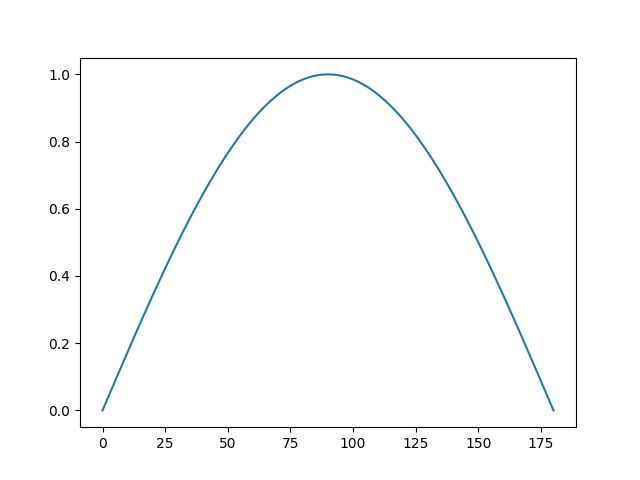
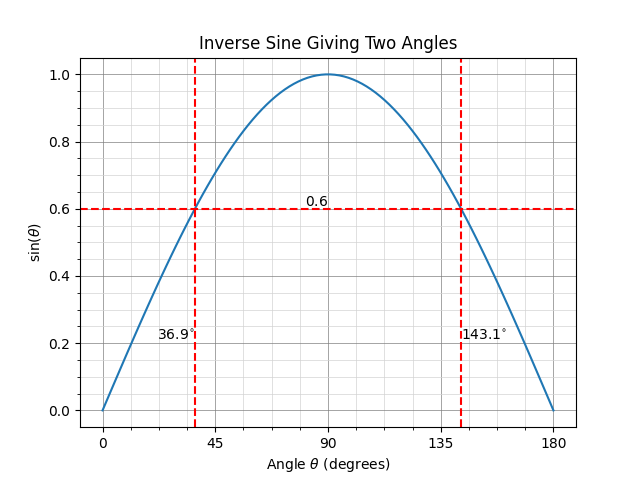
Added more info/diagrams on ambiguous Law of Sines cases.

diff --git a/content/mathematics/geometry/triangles/main.py b/content/mathematics/geometry/triangles/main.py
@@ -1,4 +1,5 @@
 import matplotlib.pyplot as plt
+from matplotlib import ticker
 import numpy as np
 import os
 from pathlib import Path
@@ -7,10 +8,41 @@ SCRIPT_DIR = Path(os.path.dirname(os.path.abspath(__file__)))
 
 def main():
     # Plot graph of sine wave
-    x = np.linspace(0, 180, 100)
-    y = np.sin(np.deg2rad(x))
+    thetas = np.linspace(0, 180, 100)
+    ys = np.sin(np.deg2rad(thetas))
 
-    plt.plot(x, y)
+    fig, ax = plt.subplots()
+
+    # Plot sine wave
+    ax.plot(thetas, ys)
+
+    # Plot horizontal line at y = 0.6
+    lineY = 0.6
+    ax.axhline(y=lineY, color='r', linestyle='--')
+
+    # Plot vertical lines where y=0.6 intersects sine wave
+    theta1 = np.rad2deg(np.arcsin(lineY))
+    theta2 = 180 - theta1
+    ax.axvline(x=theta1, color='r', linestyle='--')
+    ax.axvline(x=theta2, color='r', linestyle='--')
+
+    # Add label for y=0.6
+    ax.text(90, lineY, '$0.6$', horizontalalignment='right', verticalalignment='bottom')
+
+    # Add labels for intersections
+    ax.text(theta1, lineY/3, f'${theta1:.1f}^{{\circ}}$', horizontalalignment='right', verticalalignment='bottom')
+    ax.text(theta2, lineY/3, f'${theta2:.1f}^{{\circ}}$', horizontalalignment='left', verticalalignment='bottom')
+
+    # Add axis labels
+    ax.set(xlabel='Angle $\\theta$ (degrees)', ylabel='$\sin(\\theta)$',
+        title='Inverse Sine Giving Two Angles')
+    
+    # Show major and minor grid lines
+    ax.minorticks_on()
+    maj_pos = ticker.MultipleLocator(45)
+    ax.xaxis.set(major_locator=maj_pos)
+    ax.grid(which='major', linestyle='-', linewidth='0.5', color='gray')
+    ax.grid(which='minor', linestyle='-', linewidth='0.5', color='lightgray')
 
     plt.savefig(SCRIPT_DIR / '_assets/sine-law-sine-wave-graph.png')
 

diff --git a/content/mathematics/geometry/triangles/_index.md b/content/mathematics/geometry/triangles/_index.md
@@ -31,7 +31,7 @@ The lengths `\(a\)`, `\(b\)`, and `\(c\)` and opposite angles of `\(A\)`, `\(B\)
 
 {{% aside type="example" %}}
 
-Given the triangle shown in {{% ref "fig-law-of-sines-example-1-diagram" %}}, calculate the length of side `\(x\)`.
+Given the triangle shown in {{% ref "fig-law-of-sines-example-1-diagram" %}}, calculate the length of side `\(a\)`.
 
 {{% figure ref="fig-law-of-sines-example-1-diagram" src="_assets/law-of-sines-example-1-diagram.webp" width="400px" caption="Diagram for Example 1." %}}
 
@@ -67,11 +67,60 @@ In certain circumstances, there is more than one possible answer when calculatin
 
 {{% figure ref="fig-law-of-sines-ambiguous-case-diagram" src="_assets/law-of-sines-ambiguous-case-diagram.webp" width="1000px" caption="Diagram showing the situations when you know two sides of the triangle and 1 opposite angle. c) is the ambiguous cases which has two possible solutions." %}}
 
-Mathematically this occurs because `\(\sin^{-1}\)` can give two answers in the range of `\([0, 180]\)` (a valid angle of a triangle has to be within this range). For example, `\(\sin^{-1}(0.8)\)`.
+Mathematically this occurs because `\(\sin^{-1}\)` can give two answers in the range of `\([0, 180]\)` (a valid angle of a triangle has to be within this range). For example, `\(\sin^{-1}(0.6)\)` gives the following values:
+
+<p>\begin{align}
+\sin^{-1}(0.6) &= 36.9^{\circ} && \text{This is what the calculator will give you} \\
+\sin^{-1}(0.6) &= 180.0^{\circ} - 36.9^{\circ} \\
+               &= 143.1^{\circ} \\
+\end{align}</p>
+
+Calculators always give you the angle in the range of `\([-90, 90]\)` when using `\(\sin^{-1}\)` (also called `\(asin\)` or `\(arcsin\)`). To get the other answer you have to subtract the calculator answer from `\(180^{\circ}\)`. {{% ref "fig-sine-law-sine-wave-graph" %}} explains the situation in visual manner.
 
 {{% figure ref="fig-sine-law-sine-wave-graph" src="_assets/sine-law-sine-wave-graph.png" width="600px" caption="Graph showing how inverse sine can result in two values between `\([0, 180]\)`." %}}
 
 **If you find yourself in a position with two possible answers, what can you do?** If you don't have any other information about the triangle, then you are out of luck. However, if you know the length of the remaining side of the triangle, you can use the Cosine Law to completely solve for all angles and sides of the triangle. If you know one other angle of the triangle, then you can use the simple fact that all the internal angles sum to `\(180^{\circ}\)` to solve for the angle you were interested in.
+
+{{% aside type="example" %}}
+
+Given the triangle shown in {{% ref "fig-law-of-sines-ambiguous-example-diagram" %}}, calculate the angle of `\(B\)`. This triangle has been designed to be ambiguous (two possible answers).
+
+{{% figure ref="fig-law-of-sines-ambiguous-example-diagram" src="_assets/law-of-sines-ambiguous-example-diagram.webp" width="600px" caption="Diagram for the ambiguous Law of Sines worked example." %}}
+
+Let's start with the Law of Sines equation:
+
+<p>\begin{align}
+\frac{\sin{A}}{a} = \frac{\sin{B}}{b}
+\end{align}</p>
+
+Re-arrange to solve for `\(B\)`:
+
+<p>\begin{align}
+B = \sin^{-1}\left(\frac{b\sin{A}}{a}\right)
+\end{align}</p>
+
+Plugging in the values:
+
+<p>\begin{align}
+B &= \sin^{-1}\left(\frac{44\text{mm} \cdot \sin{37.5^{\circ}}}{28\text{mm}}\right) \\
+  &= \sin^{-1}(0.957)
+\end{align}</p>
+
+The calculator will give us (this is the answer using the **solid** blue line in {{% ref "fig-law-of-sines-ambiguous-example-diagram" %}}):
+
+<p>\begin{align}
+B &= \sin^{-1}(0.957) \\
+  &= 73.1^{\circ}
+\end{align}</p>
+
+And the other solution is `\(180\)` minus this (this is the answer using the **dotted** blue line in {{% ref "fig-law-of-sines-ambiguous-example-diagram" %}}):
+
+<p>\begin{align}
+B &= 180^{\circ} - \sin^{-1}(0.957) \\
+  &= 107^{\circ}
+\end{align}</p>
+
+{{% /aside %}}
 
 ## References
 
